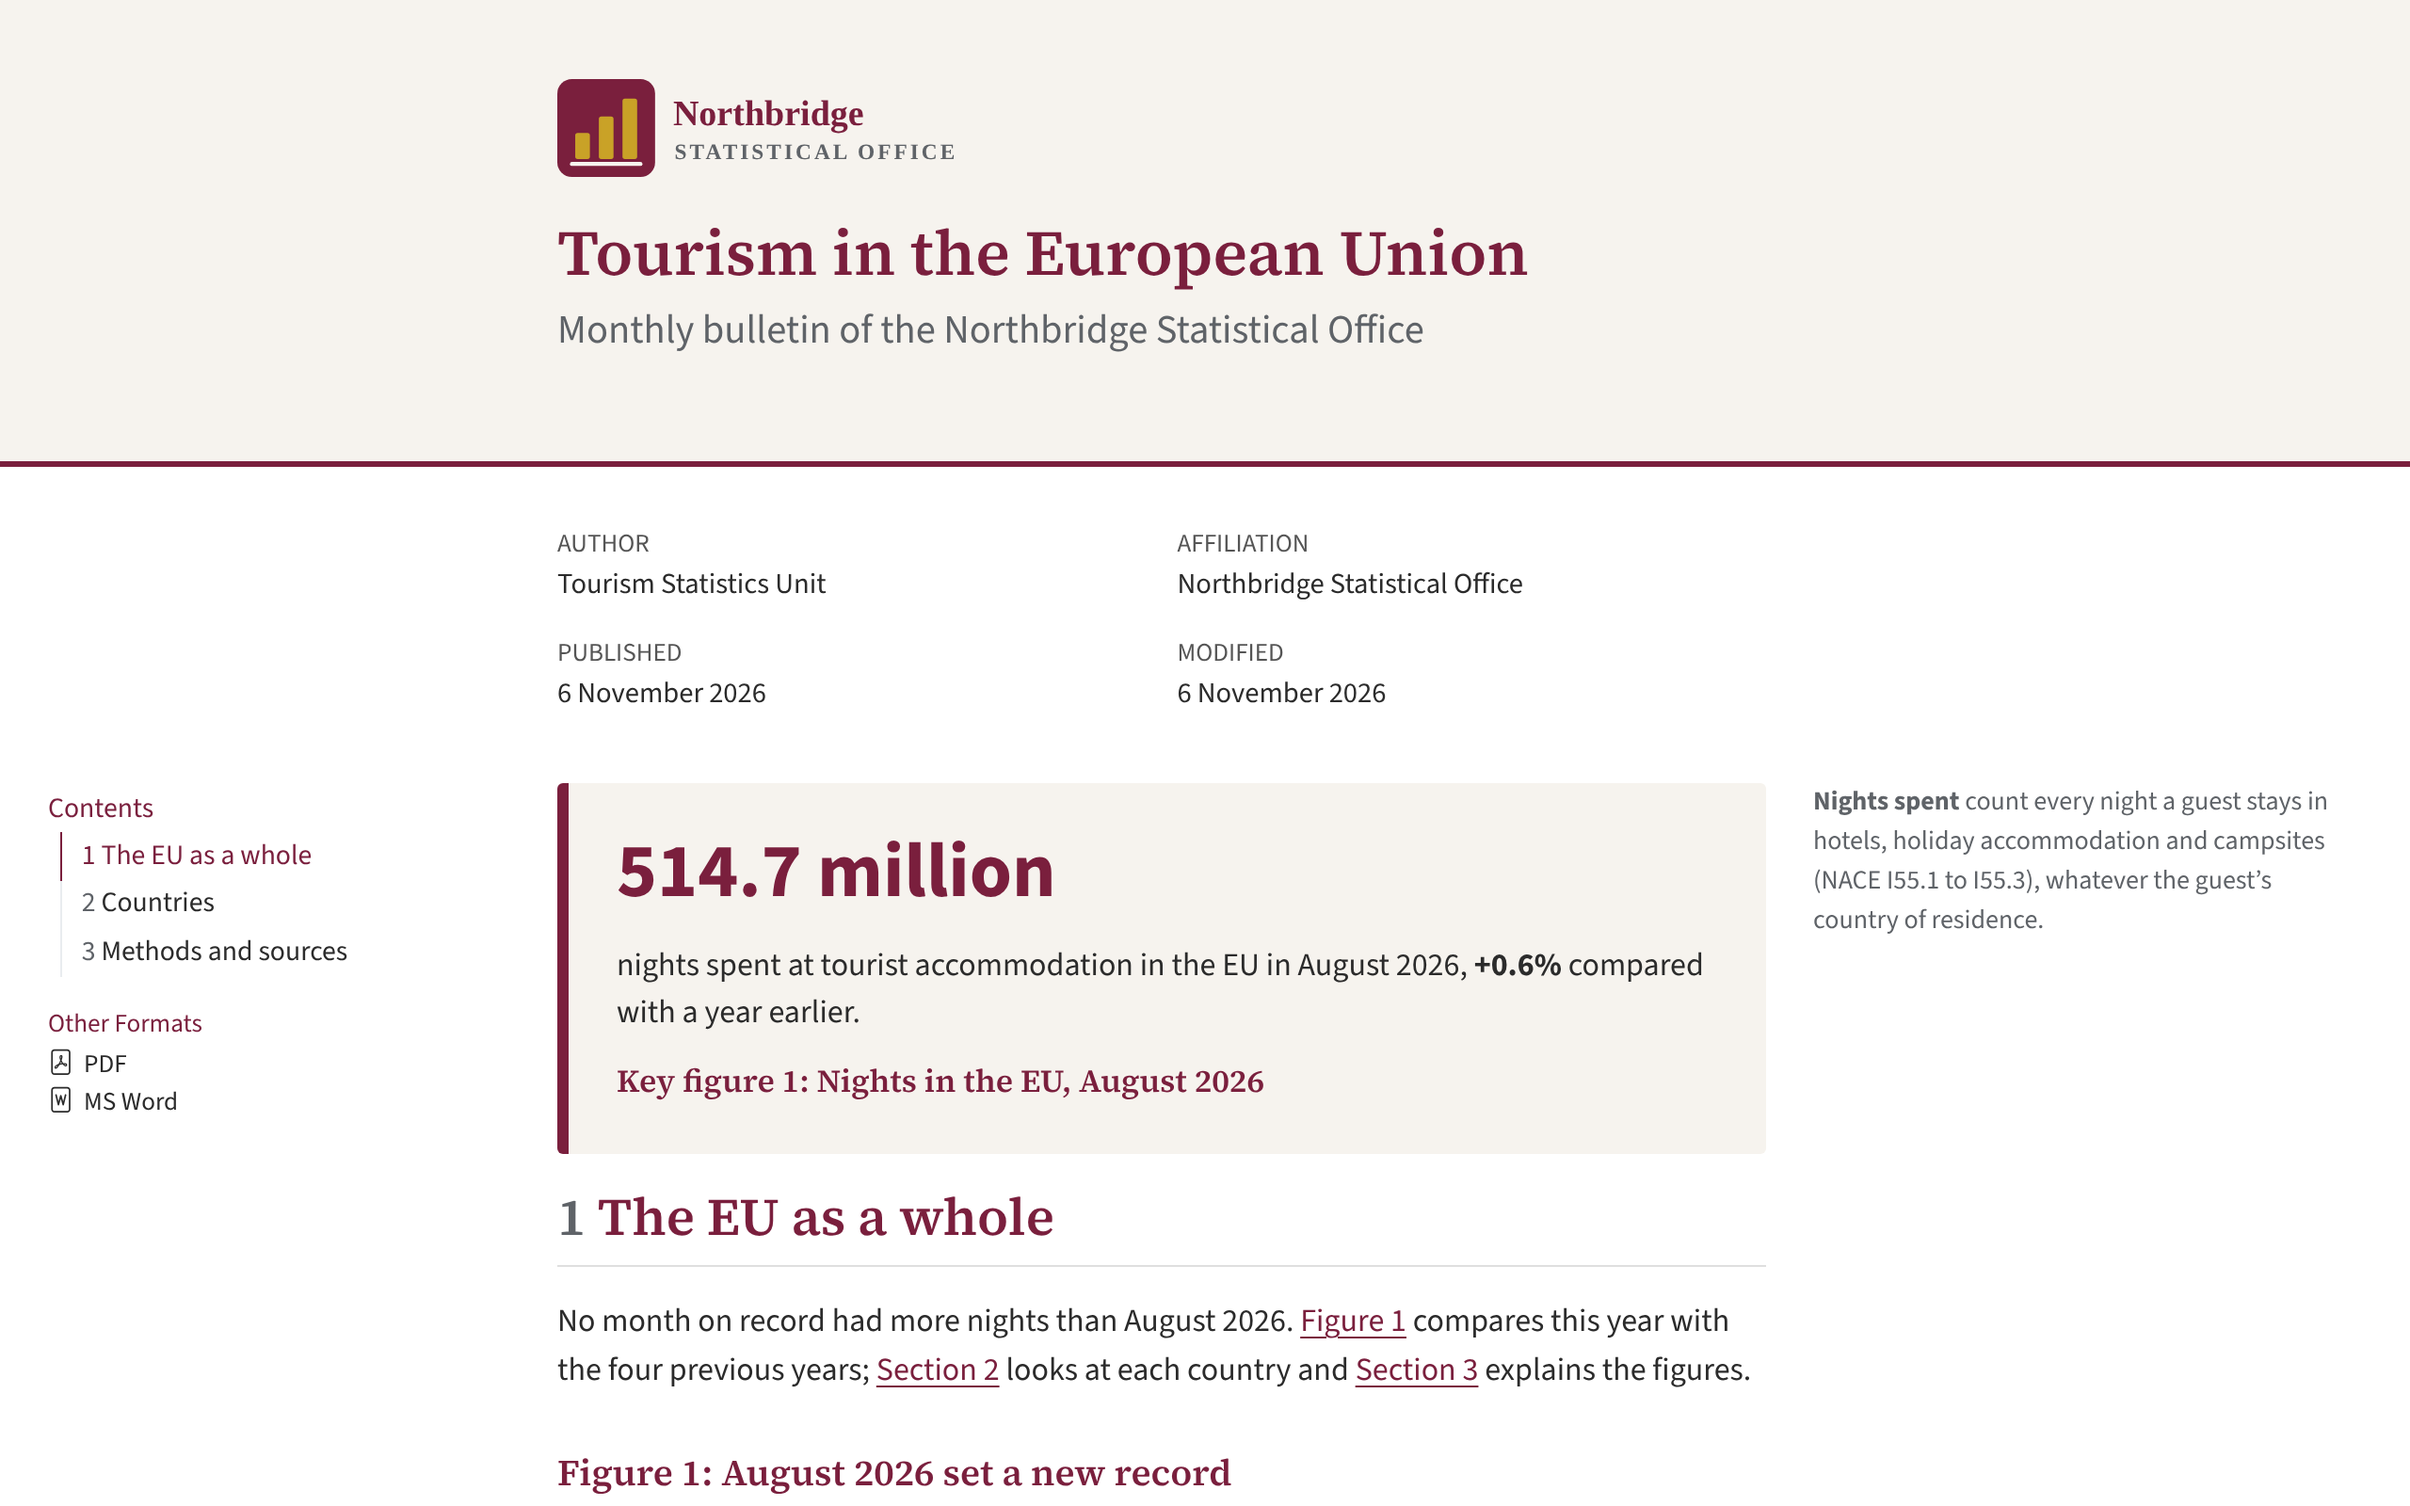
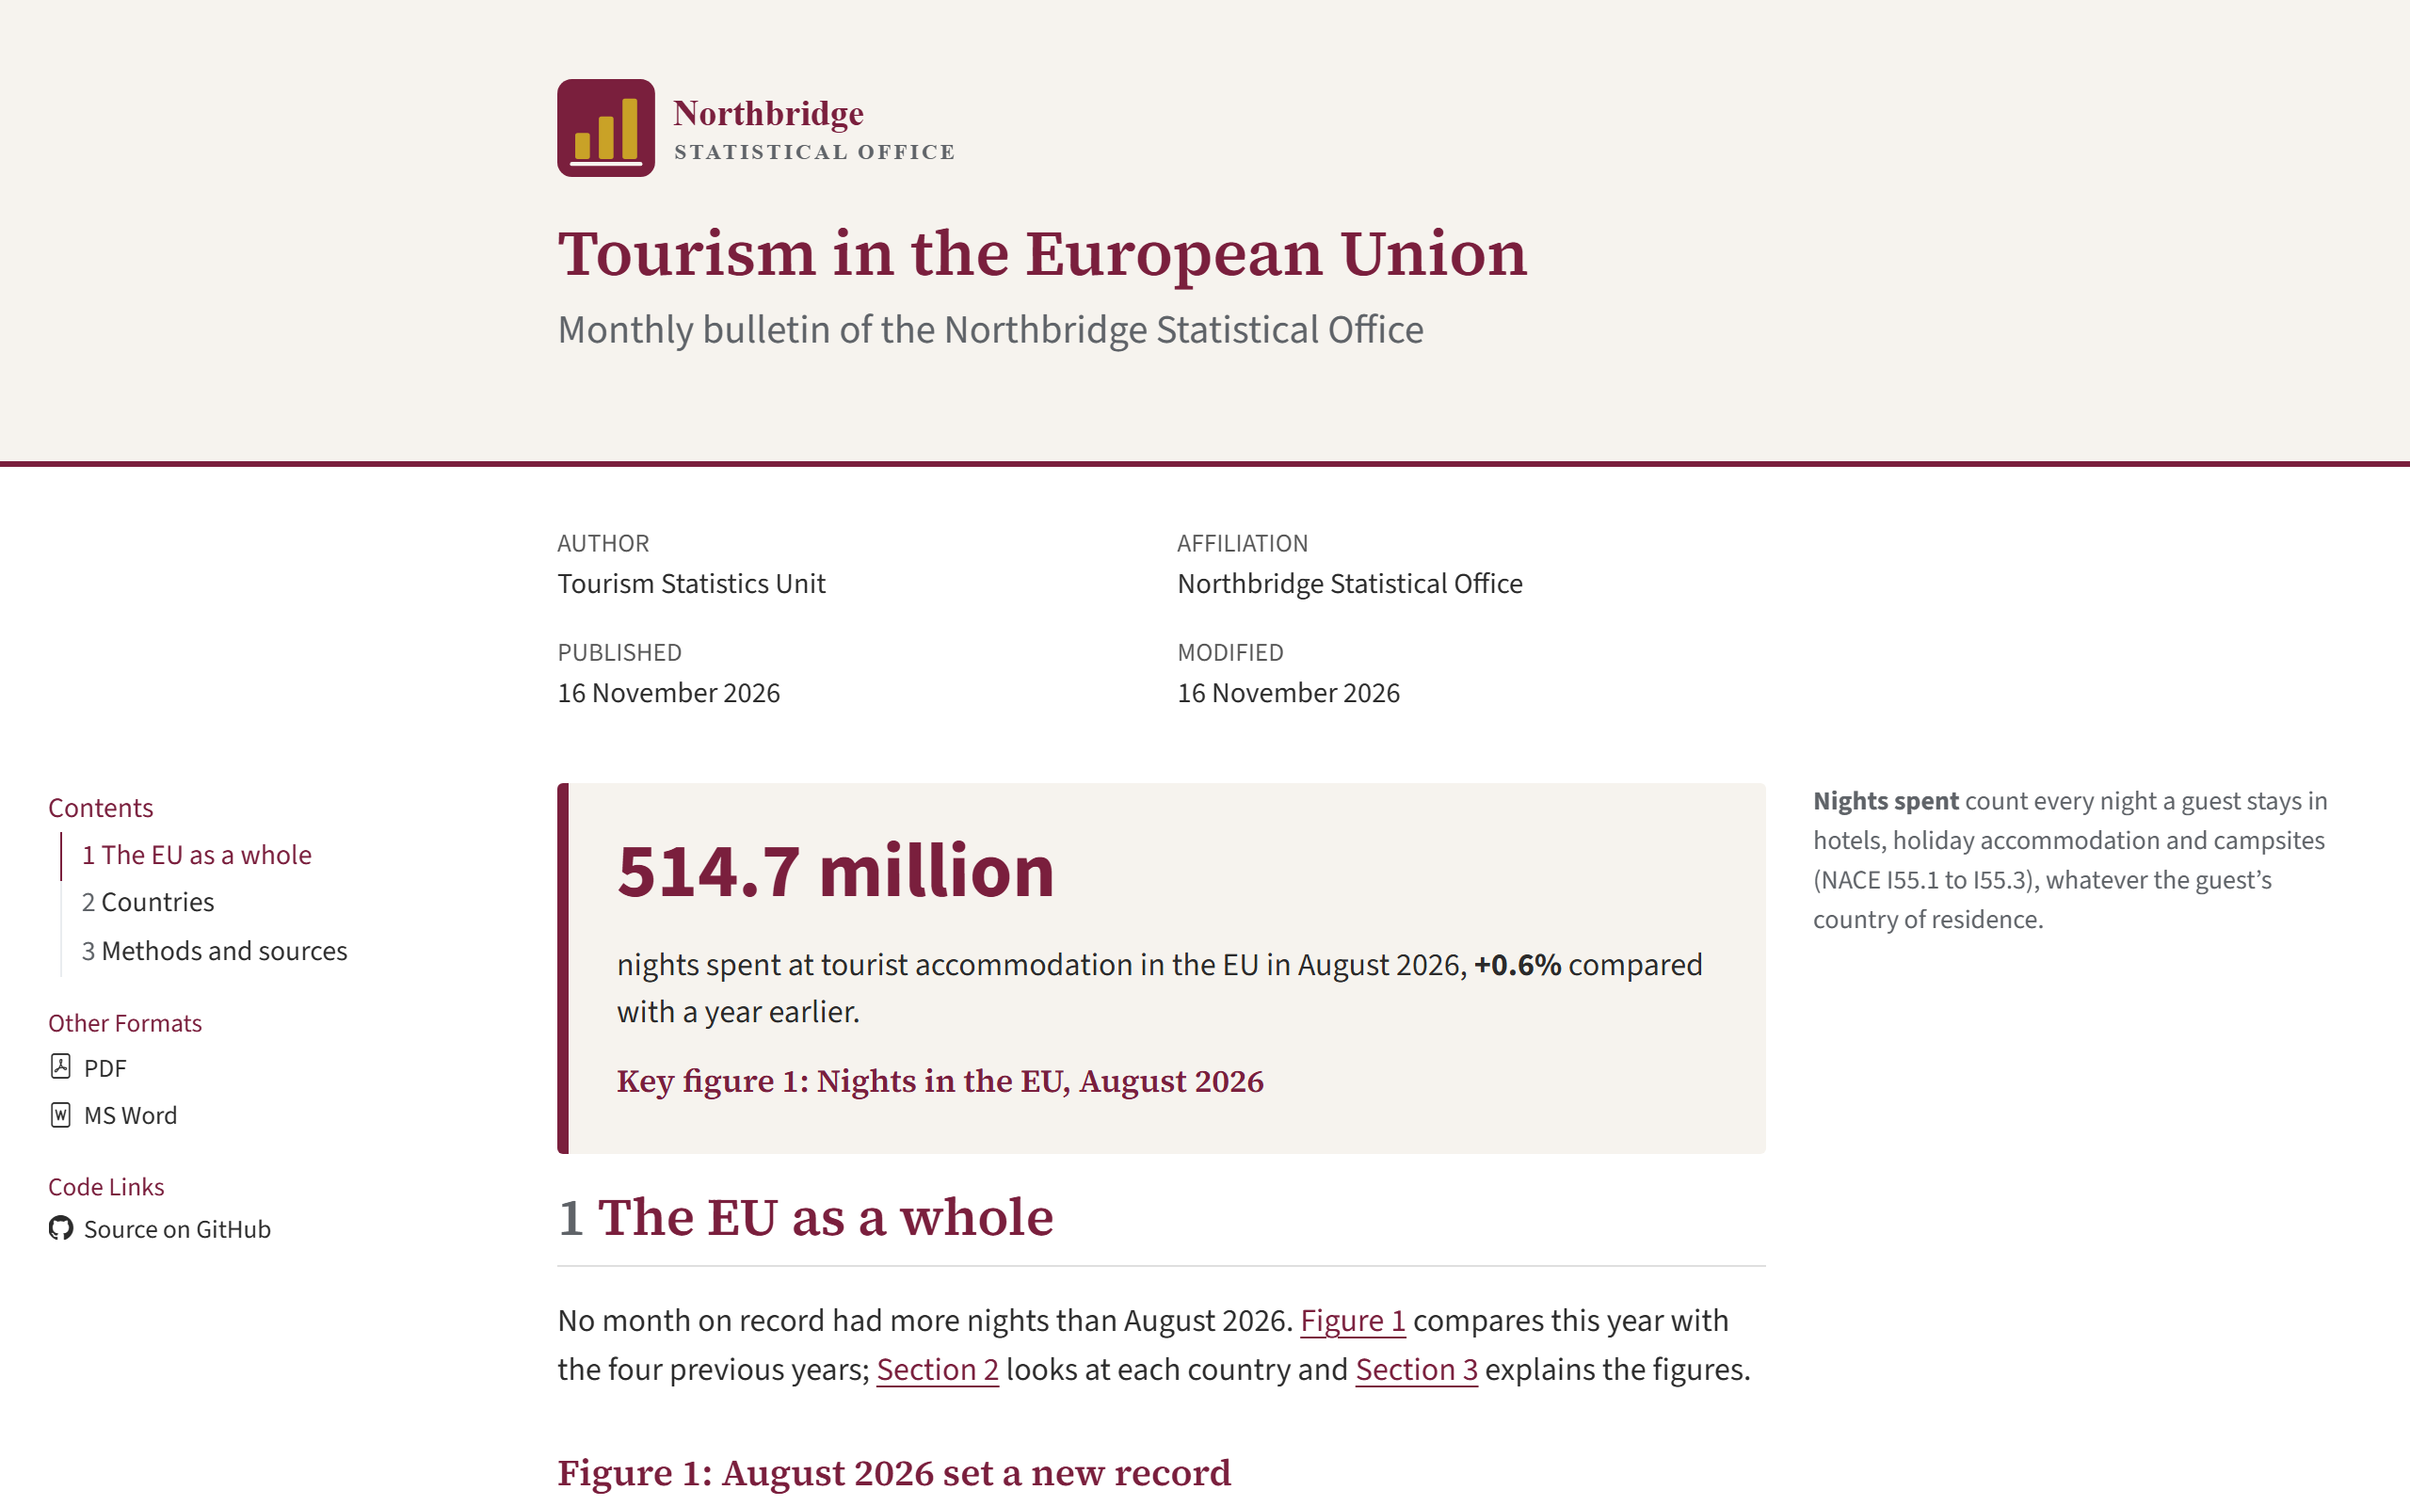
Built site for gh-pages

diff --git a/index.html b/index.html
@@ -410,7 +410,7 @@ has a talk about publishing statistics</span></p>
 </section>
 <section id="what-is-quarto" class="slide level2 timing-section">
 <h2>Quarto …</h2>
-<span class="timing-bar-data" style="display:none" data-duration="15s" data-section="true" data-title="X1 · Every number computed"></span>
+<span class="timing-bar-data" style="display:none" data-title="X1 · Every number computed" data-section="true" data-duration="15s"></span>
 <p>…is an open-source, scientific, and technical publishing system</p>
 
 <img data-src="images/horst_quarto_schematic.png" alt="Schematic: R, Python, Observable, Julia and other languages go into Quarto, which makes HTML, PDF, Word and other documents." width="900" class="r-stretch quarto-figure-center"><p class="caption"><span class="small-cap">Artwork from “Hello, Quarto” keynote by Julia Lowndes and Mine Çetinkaya-Rundel, presented at RStudio Conference 2022. Illustrated by Allison Horst.</span></p><aside class="notes">
@@ -671,7 +671,7 @@ has a talk about publishing statistics</span></p>
 </section>
 <section id="formats" class="slide level2 magic-move timing-section" data-kicker="Same source, multiple formats">
 <h2>Output formats at the top of the file</h2>
-<span class="timing-bar-data" style="display:none" data-duration="10s" data-section="true" data-title="X2 · Same source, multiple formats"></span>
+<span class="timing-bar-data" style="display:none" data-title="X2 · Same source, multiple formats" data-section="true" data-duration="10s"></span>
 <div class="code-copy-outer-scaffold"><div class="sourceCode" id="cb6" data-code-line-numbers="3"><pre class="sourceCode numberSource yaml number-lines code-with-copy"><code class="sourceCode yaml"><span id="cb6-1"><a href="" aria-label="1"></a><span class="pp">---</span></span>
 <span id="cb6-2"><a href="" aria-label="2"></a><span class="fu">title</span><span class="kw">:</span><span class="at"> Tourism in the EU</span></span>
 <span id="cb6-3"><a href="" aria-label="3"></a><span class="fu">format</span><span class="kw">:</span><span class="at"> html</span></span>
@@ -747,7 +747,7 @@ has a talk about publishing statistics</span></p>
 <span class="timing-bar-data" style="display:none" data-duration="20s"></span>
 <div class="quarto-figure quarto-figure-center">
 <figure>
-<p><img data-src="images/bulletin/html-page.png" class="shot quarto-figure quarto-figure-center" alt="Top of the HTML bulletin in a browser: the Northbridge Statistical Office banner with its logo, the title Tourism in the European Union, a contents sidebar with links to the PDF and Word versions, and the key figure 514.7 million in a box." height="530"></p>
+<p><img data-src="images/bulletin/html-page.png" class="shot quarto-figure quarto-figure-center" alt="Top of the HTML bulletin in a browser: the Northbridge Statistical Office banner with its logo, the title Tourism in the European Union, a contents sidebar with links to the PDF and Word versions and to the source on GitHub, and the key figure 514.7 million in a box." height="530"></p>
 </figure>
 </div>
 <aside class="notes">
@@ -807,7 +807,7 @@ has a talk about publishing statistics</span></p>
 </section>
 <section id="table" class="slide level2 timing-section" data-kicker="Ready to publish">
 <h2>A gt table in HTML and PDF</h2>
-<span class="timing-bar-data" style="display:none" data-duration="30s" data-section="true" data-title="X3 · Ready to publish"></span>
+<span class="timing-bar-data" style="display:none" data-title="X3 · Ready to publish" data-section="true" data-duration="30s"></span>
 <div class="columns">
 <div class="column" style="width:50%;">
 <div class="code-copy-outer-scaffold"><div class="sourceCode" id="cb10"><pre class="sourceCode markdown code-with-copy"><code class="sourceCode markdown"><span id="cb10-1"><a href="" aria-hidden="true" tabindex="-1"></a><span class="in">```{r}</span></span>
@@ -947,7 +947,7 @@ has a talk about publishing statistics</span></p>
 </section>
 <section id="again" class="slide level2 magic-move timing-section" data-kicker="Fix it once">
 <h2>Thursday, 17:50, again</h2>
-<span class="timing-bar-data" style="display:none" data-duration="20s" data-section="true" data-title="Y · Fix it once"></span>
+<span class="timing-bar-data" style="display:none" data-title="Y · Fix it once" data-section="true" data-duration="20s"></span>
 <p><span class="lead">The key figure is wrong.</span></p>
 <div class="code-copy-outer-scaffold"><div class="sourceCode" id="cb15" data-code-line-numbers="7"><pre class="sourceCode numberSource r number-lines code-with-copy"><code class="sourceCode r"><span id="cb15-1"><a href="" aria-label="1"></a>nights <span class="ot">&lt;-</span> <span class="fu">get_eurostat</span>(</span>
 <span id="cb15-2"><a href="" aria-label="2"></a>  <span class="st">"tour_occ_nim"</span>,</span>
@@ -1082,7 +1082,7 @@ has a talk about publishing statistics</span></p>
 </section>
 <section id="products" class="slide level2 timing-section" data-kicker="In official statistics">
 <h2>Already published with Quarto</h2>
-<span class="timing-bar-data" style="display:none" data-duration="45s" data-section="true" data-title="Z · In official statistics, and next"></span>
+<span class="timing-bar-data" style="display:none" data-title="Z · In official statistics, and next" data-section="true" data-duration="45s"></span>
 <p><span class="gallery-count">France · Norway · United Kingdom · OECD</span></p>
 <!-- Screenshots: just gallery (scripts/capture-gallery.mjs), which also checks each page is made with Quarto -->
 <div class="r-stack">
@@ -1219,7 +1219,7 @@ has a talk about publishing statistics</span></p>
 </section>
 <section id="learning-more" class="slide level2 timing-section">
 <h2>Learning More</h2>
-<span class="timing-bar-data" style="display:none" data-duration="30s" data-section="true" data-title="End"></span>
+<span class="timing-bar-data" style="display:none" data-title="End" data-section="true" data-duration="30s"></span>
 <div class="columns">
 <div class="column" style="width:62%;">
 <h4 class="bottom-pad" id="slides-httpscderv.github.iouros2026-quarto-intro">Slides: <a href="https://cderv.github.io/uros2026-quarto-intro/" class="uri">https://cderv.github.io/uros2026-quarto-intro/</a></h4>
@@ -1585,9 +1585,9 @@ has a talk about publishing statistics</span></p>
 
       // Z gallery: easycarousel autoplays from page load and loops. Restart it from
 
-      // the first thumbnail when its slide is shown, stop it on the last thumbnail,
+      // the first thumbnail when its slide is shown, and pause it when the slide is
 
-      // and pause it when the slide is left (the extension itself is not edited).
+      // left (the extension itself is not edited).
 
       (function () {
 
@@ -1596,18 +1596,6 @@ has a talk about publishing statistics</span></p>
           return Array.from(document.querySelectorAll('.easycarousel'))
 
             .filter((el) => el.easycarousel && el.easycarousel.plugins().autoplay);
-
-        }
-
-        function stopOnLast(embla) {
-
-          // timerset fires just before the plugin marks itself as playing: defer
-
-          if (embla.selectedScrollSnap() === embla.scrollSnapList().length - 1) {
-
-            setTimeout(() => embla.plugins().autoplay.stop(), 0);
-
-          }
 
         }
 
@@ -1625,8 +1613,6 @@ has a talk about publishing statistics</span></p>
 
               embla.reInit();
 
-              embla.off('autoplay:timerset', stopOnLast).on('autoplay:timerset', stopOnLast);
-
               embla.scrollTo(0, true);
 
               embla.plugins().autoplay.play();
@@ -1641,7 +1627,23 @@ has a talk about publishing statistics</span></p>
 
         }
 
-        Reveal.on('ready', () => setTimeout(() => sync(Reveal.getCurrentSlide()), 300));
+        Reveal.on('ready', () => setTimeout(() => {
+
+          carousels().forEach((el) => {
+
+            el.easycarousel.on('reInit', () => {
+
+              // Hiding a slide re-initializes Embla, which restarts autoplay.
+
+              if (!Reveal.getCurrentSlide().contains(el)) el.easycarousel.plugins().autoplay.stop();
+
+            });
+
+          });
+
+          sync(Reveal.getCurrentSlide());
+
+        }, 300));
 
         Reveal.on('slidechanged', (e) => sync(e.currentSlide));
 
